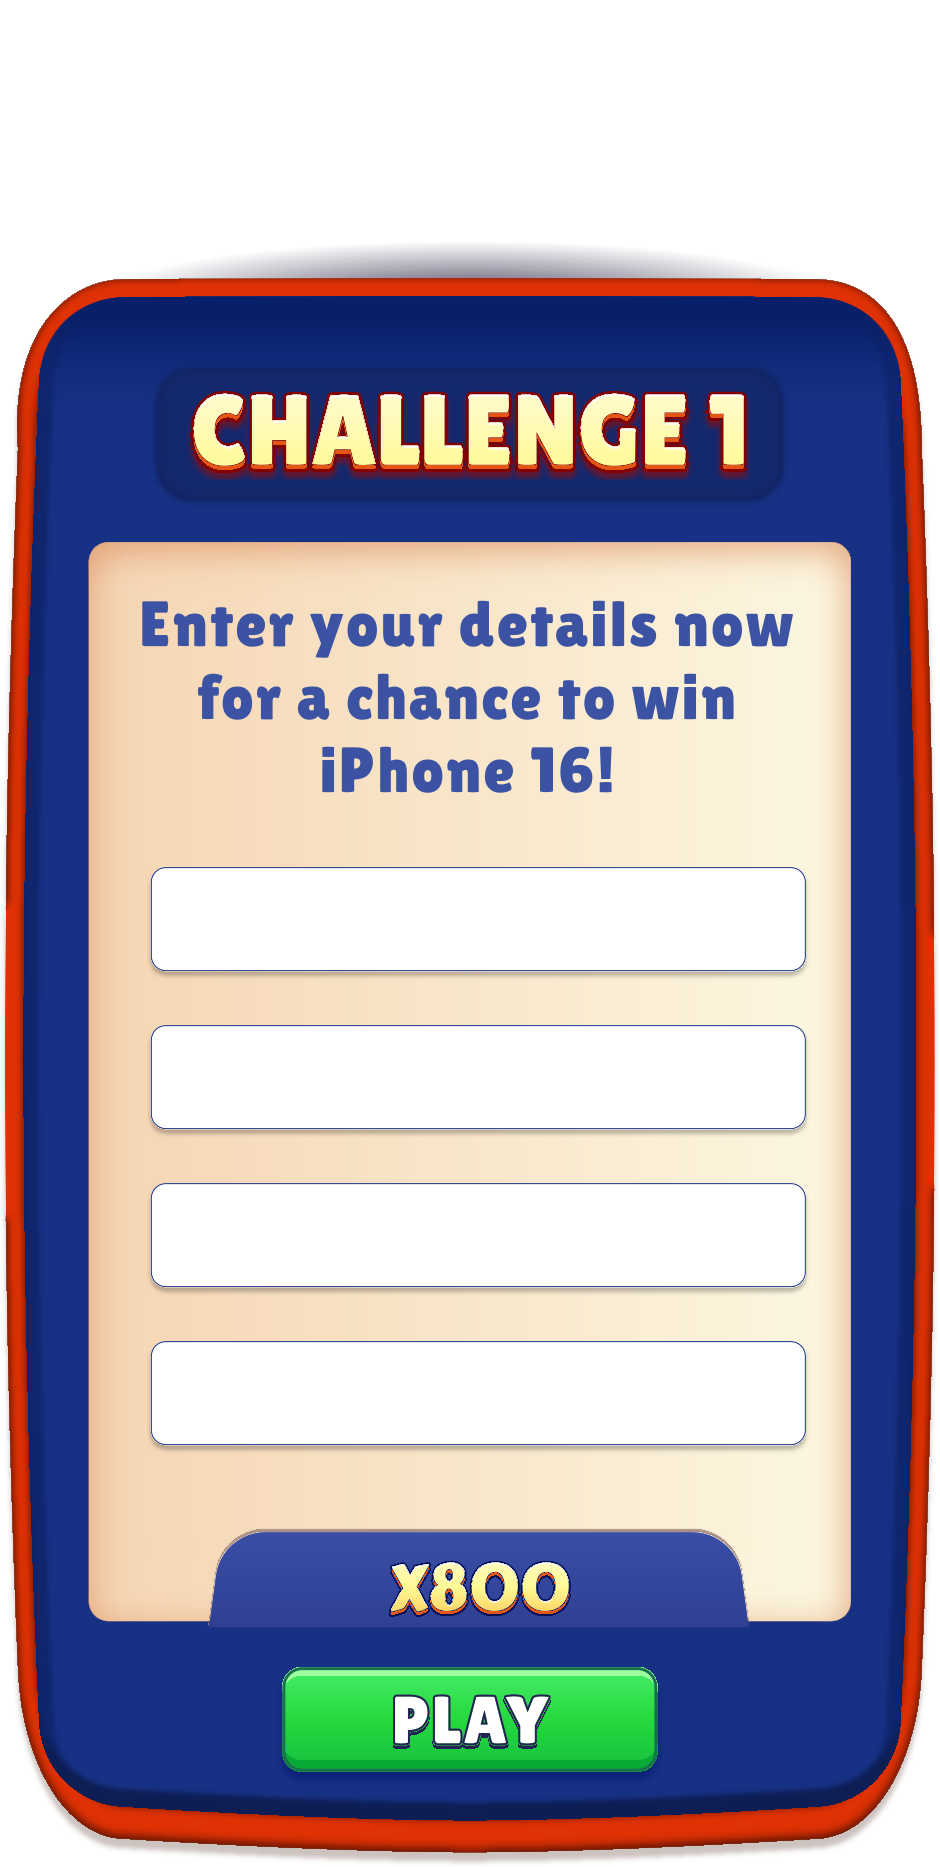
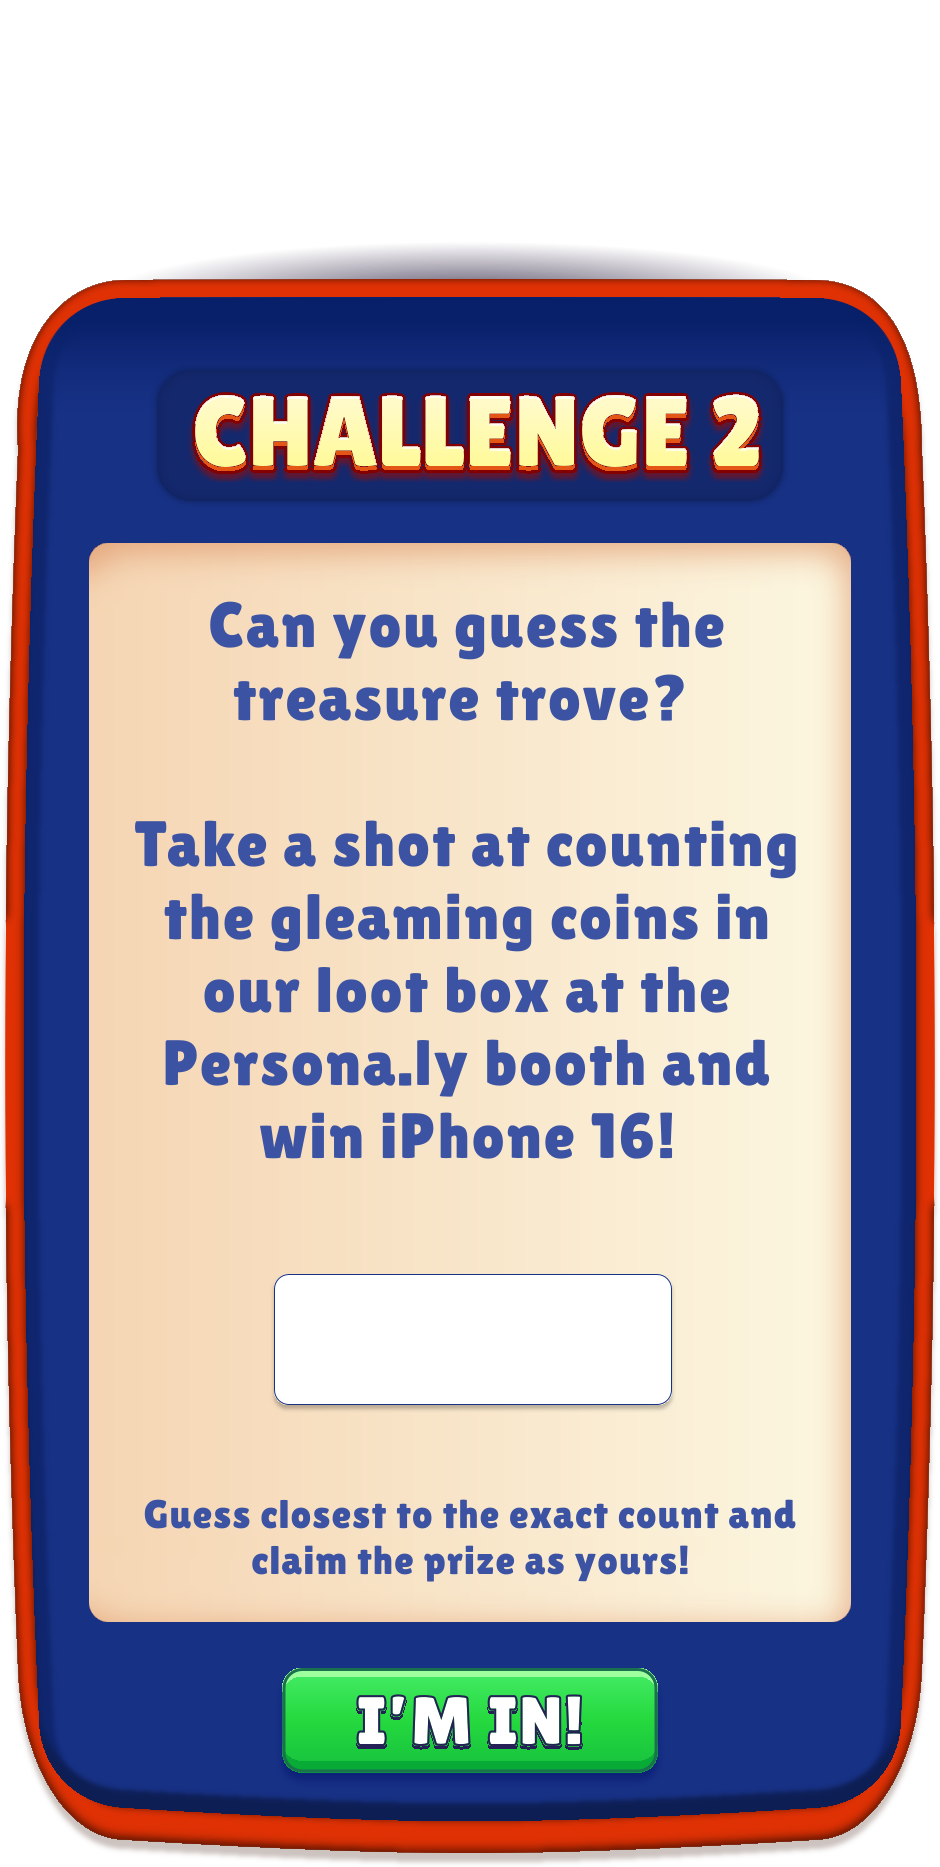
switch first and second form

diff --git a/src/scripts/engine.ts b/src/scripts/engine.ts
@@ -35,46 +35,21 @@ function handleFirstForm() {
     e.preventDefault()
 
     const formData = new FormData(form)
+    const answer = formData.get('Answer') as string
 
-    if (['Full Name', 'Company', 'Job Title', 'Email'].some((key) => !formData.get(key))) {
+    if (!answer) {
       formError.innerHTML = 'Please fill out all the fields'
       return
     }
 
-    formData.set('Form ID', '1')
-
     formError.innerHTML = ''
-    popup.classList.add('popup_loading')
+    popup.classList.remove('popup_visible')
 
-    fetch(
-      'https://script.google.com/macros/s/AKfycby0zLMJeUtlcOQy14SMzQJRdJEM68LvgzjWOcoqInhVr1RJ-HaJZONXEbQGM4V8tpWbIw/exec',
-      {
-        method: 'POST',
-        body: formData,
-      },
-    )
-      .then((response) => response.json())
-      .then((data) => {
-        if (data.result !== 'success') {
-          formError.innerHTML = 'Something went wrong :(<br />Please try again'
-          return
-        }
-
-        formError.innerHTML = ''
-        popup.classList.remove('popup_visible')
-
-        goToSecondMilestone(formData)
-      })
-      .catch(() => {
-        formError.innerHTML = 'Something went wrong :(<br />Please try again'
-      })
-      .finally(() => {
-        popup.classList.remove('popup_loading')
-      })
+    goToSecondMilestone(answer)
   })
 }
 
-function goToSecondMilestone(firstFormData: FormData) {
+function goToSecondMilestone(answer: string) {
   const firstMilestone = document.getElementById('milestone-1')!
   const secondMilestone = document.getElementById('milestone-2')!
   const avatar = document.getElementById('avatar')!
@@ -94,18 +69,18 @@ function goToSecondMilestone(firstFormData: FormData) {
   }, 2000)
 
   setTimeout(() => {
-    openSecondPopup(firstFormData)
+    openSecondPopup(answer)
   }, 4000)
 }
 
-function openSecondPopup(firstFormData: FormData) {
+function openSecondPopup(answer: string) {
   const secondPopup = document.getElementById('popup-2')!
   secondPopup.classList.add('popup_visible')
 
-  handleSecondForm(firstFormData)
+  handleSecondForm(answer)
 }
 
-function handleSecondForm(firstFormData: FormData) {
+function handleSecondForm(answer: string) {
   const secondMilestone = document.getElementById('milestone-2')!
   const popup = document.getElementById('popup-2')!
   const form = document.getElementById('form-2') as HTMLFormElement
@@ -114,16 +89,14 @@ function handleSecondForm(firstFormData: FormData) {
   form.addEventListener('submit', (e) => {
     e.preventDefault()
 
-    const secondFormData = new FormData(form)
+    const formData = new FormData(form)
 
-    if (!secondFormData.get('Answer')) {
+    if (['Full Name', 'Company', 'Job Title', 'Email'].some((key) => !formData.get(key))) {
       formError.innerHTML = 'Please fill out all the fields'
       return
     }
 
-    const formData = firstFormData
-    formData.set('Form ID', '2')
-    formData.set('Answer', secondFormData.get('Answer')!)
+    formData.set('Answer', answer)
 
     formError.innerHTML = ''
     popup.classList.add('popup_loading')

diff --git a/index.html b/index.html
@@ -30,16 +30,19 @@
         ></lottie-player>
       </div>
 
-      <lottie-player id="avatar" src="/really-raffle-landing/lottie/avatar.json" class="avatar" loop autoplay></lottie-player>
+      <lottie-player
+        id="avatar"
+        src="/really-raffle-landing/lottie/avatar.json"
+        class="avatar"
+        loop
+        autoplay
+      ></lottie-player>
 
       <div class="popup" id="popup-1">
         <img src="/images/popup_1_background.png" class="popup__background" draggable="false" />
 
         <form id="form-1">
-          <input class="popup__input popup__input_type_name" placeholder="Full Name" type="text" name="Full Name" />
-          <input class="popup__input popup__input_type_company" placeholder="Company" type="text" name="Company" />
-          <input class="popup__input popup__input_type_job" placeholder="Job Title" type="text" name="Job Title" />
-          <input class="popup__input popup__input_type_email" placeholder="Email" type="text" name="Email" />
+          <input class="popup__input popup__input_type_answer" placeholder="Your answer" type="text" name="Answer" />
 
           <button class="popup__submit-button" type="submit"></button>
         </form>
@@ -55,7 +58,10 @@
         <img src="/images/popup_2_background.png" class="popup__background" draggable="false" />
 
         <form id="form-2">
-          <input class="popup__input popup__input_type_answer" placeholder="Your answer" type="text" name="Answer" />
+          <input class="popup__input popup__input_type_name" placeholder="Full Name" type="text" name="Full Name" />
+          <input class="popup__input popup__input_type_company" placeholder="Company" type="text" name="Company" />
+          <input class="popup__input popup__input_type_job" placeholder="Job Title" type="text" name="Job Title" />
+          <input class="popup__input popup__input_type_email" placeholder="Email" type="text" name="Email" />
 
           <button class="popup__submit-button" type="submit"></button>
         </form>

diff --git a/src/styles/popup.scss b/src/styles/popup.scss
@@ -48,6 +48,13 @@
       color: #3c53a3;
     }
 
+    &_type_answer {
+      top: 63.85dvh;
+      width: 13dvh;
+      line-height: 4.8dvh;
+      text-align: center;
+    }
+
     &_type_name {
       top: 48.05dvh;
     }
@@ -62,13 +69,6 @@
 
     &_type_email {
       top: 66.62dvh;
-    }
-
-    &_type_answer {
-      top: 63.85dvh;
-      width: 13dvh;
-      line-height: 4.8dvh;
-      text-align: center;
     }
   }
 
